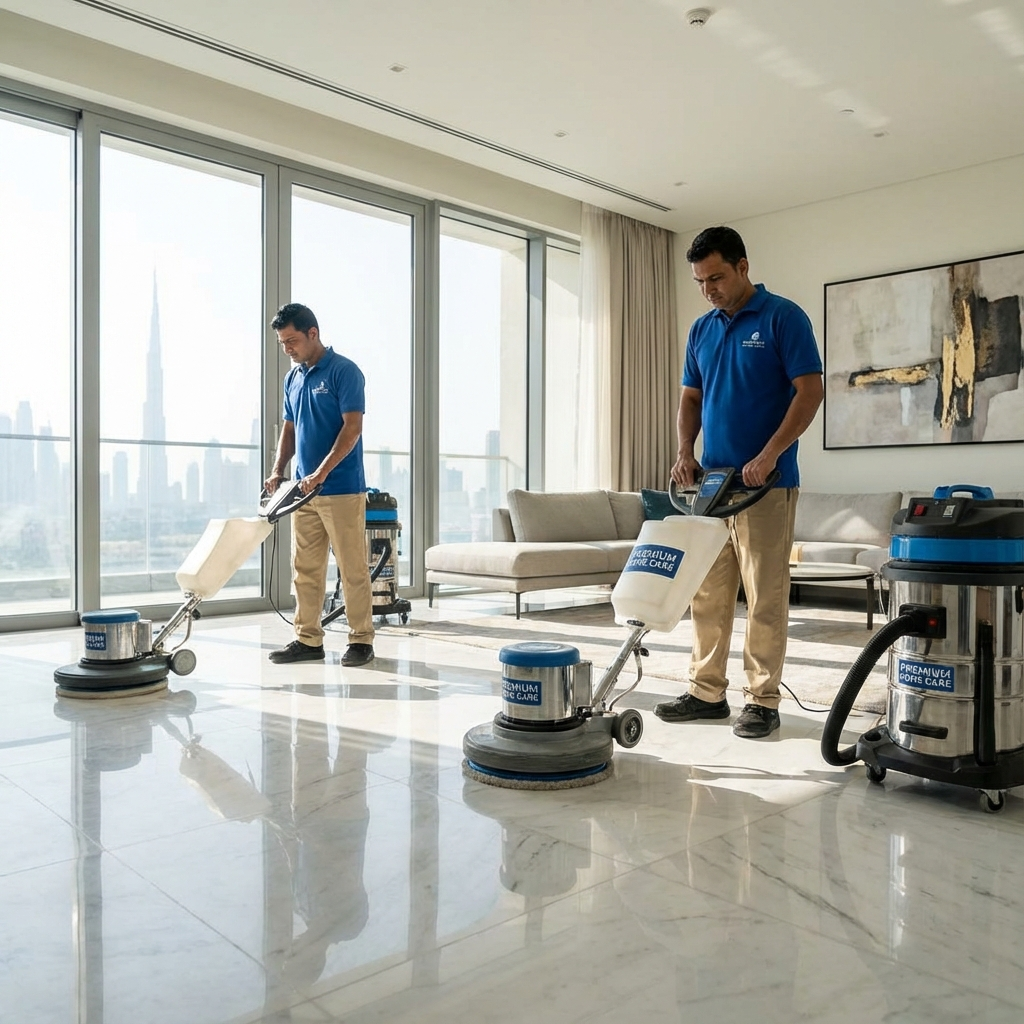
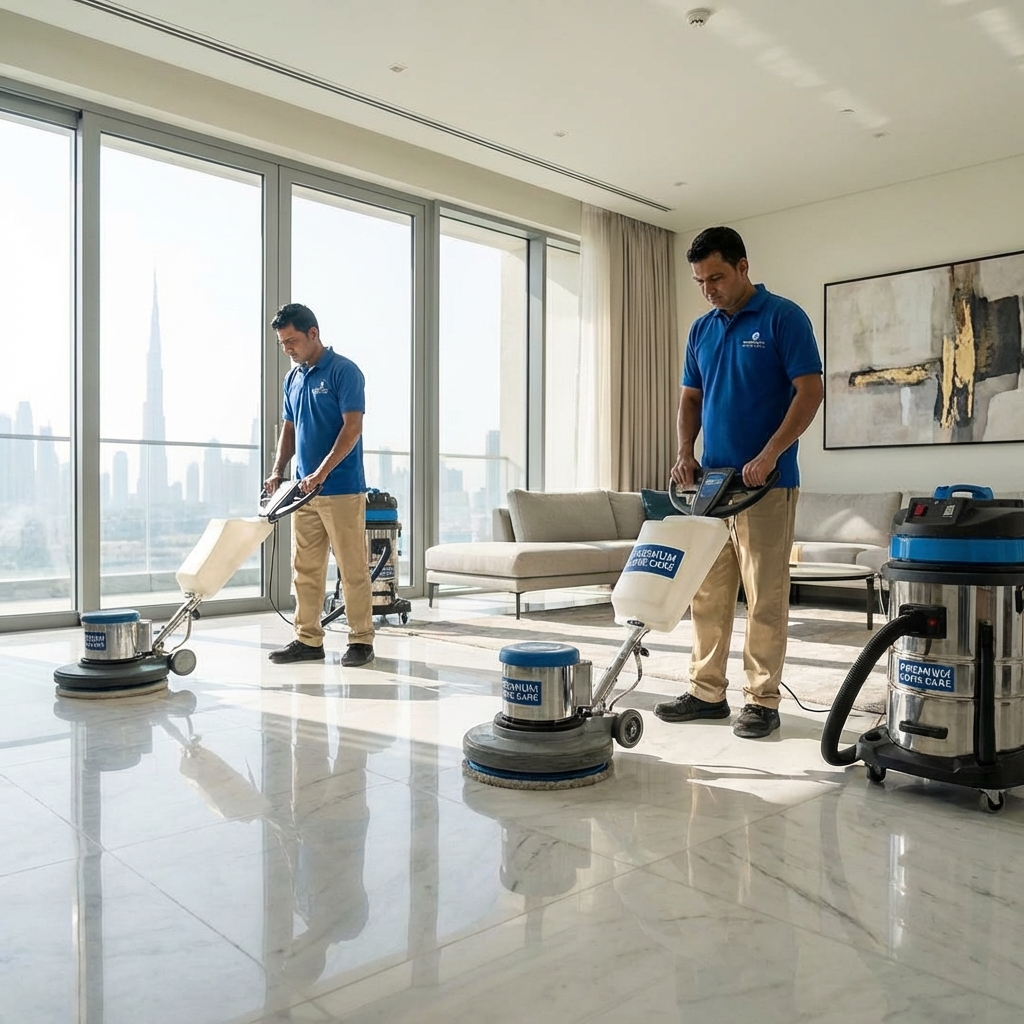
Round 4: Optimized oversized source images (ac, stoves, cleaning)

diff --git a/src/data/serviceData.ts b/src/data/serviceData.ts
@@ -135,7 +135,7 @@ export const serviceData: Record<string, ServicePageData> = {
                 description: "A flawless installation is the foundation of a decade of comfort. We calculate load, optimize placement, and calibrate airflow.",
                 icon: Wind,
                 details: ["Load Calculation", "Ductwork Design", "Efficiency Audits", "Smart Thermostats"],
-                image: "/images/services/ac.jpg" // Using reliable local asset
+                image: "/images/services/ac.png" // Using reliable local asset
             },
             {
                 id: "maintenance",

diff --git a/src/components/pages/HomePage.tsx b/src/components/pages/HomePage.tsx
@@ -98,7 +98,7 @@ export default function HomePage() {
                             title: "AC",
                             href: "/services/ac",
                             icon: IconAC,
-                            image: "/images/services/ac.jpg",
+                            image: "/images/services/ac.png",
                             features: ["Precision Cooling", "Install & Repair", "Split / Central"]
                         },
                         {
